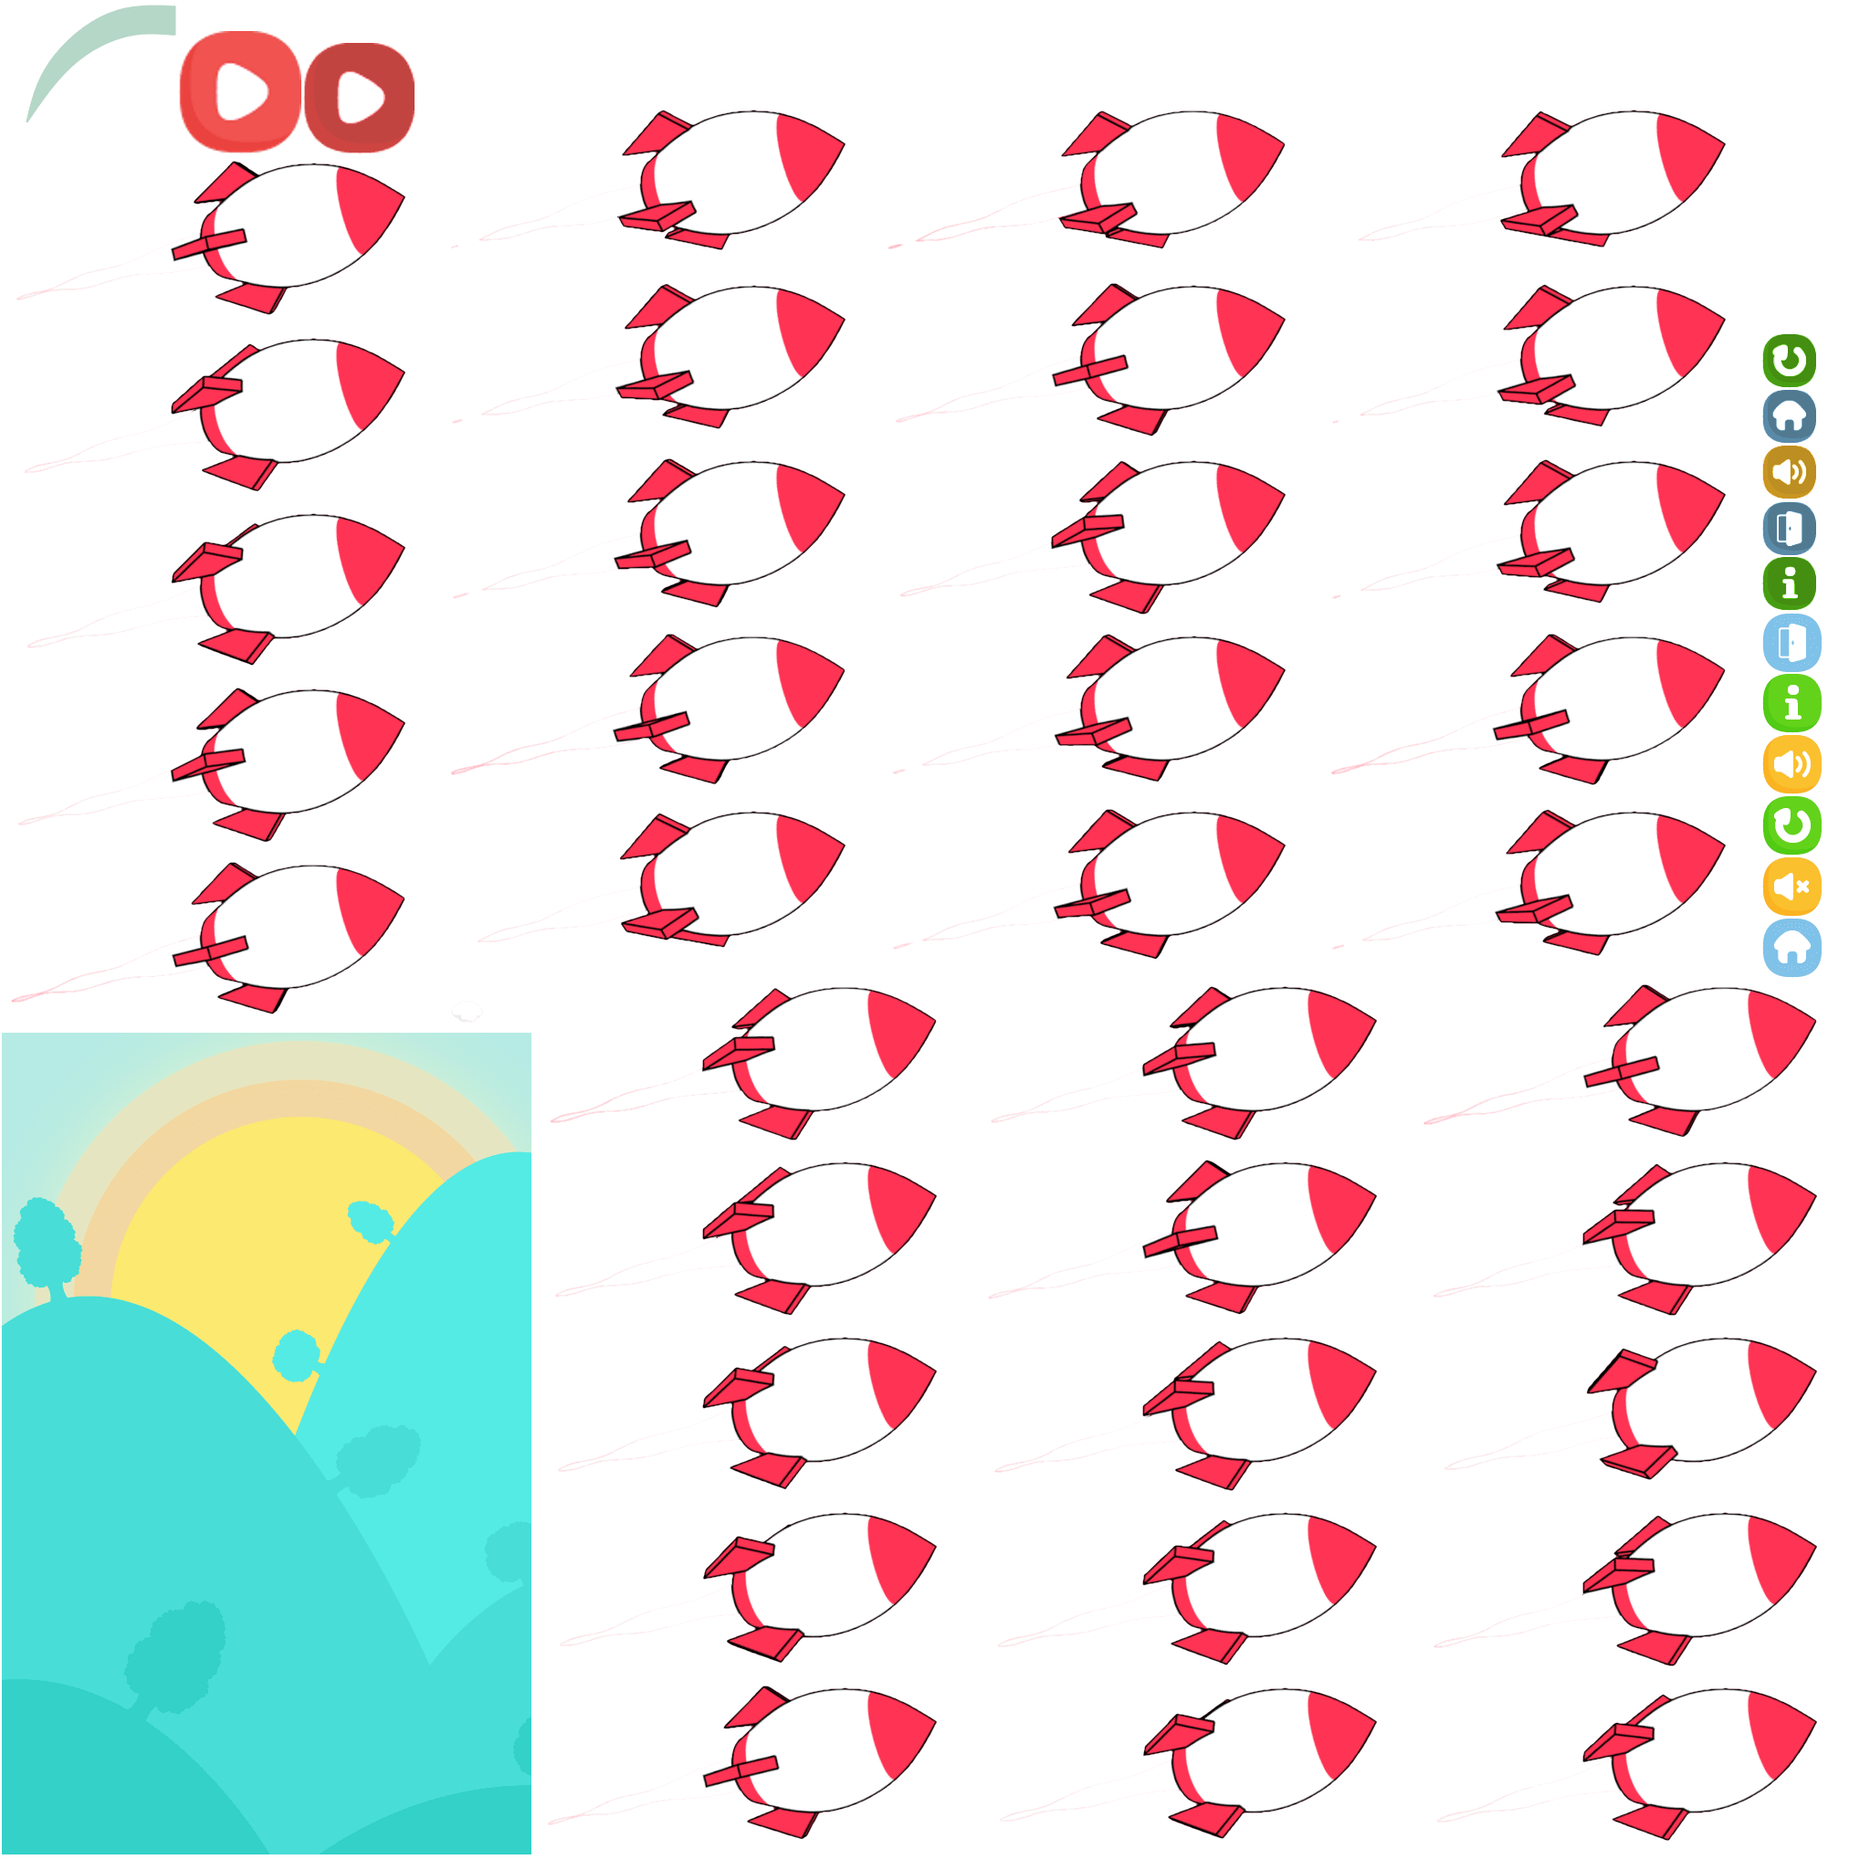
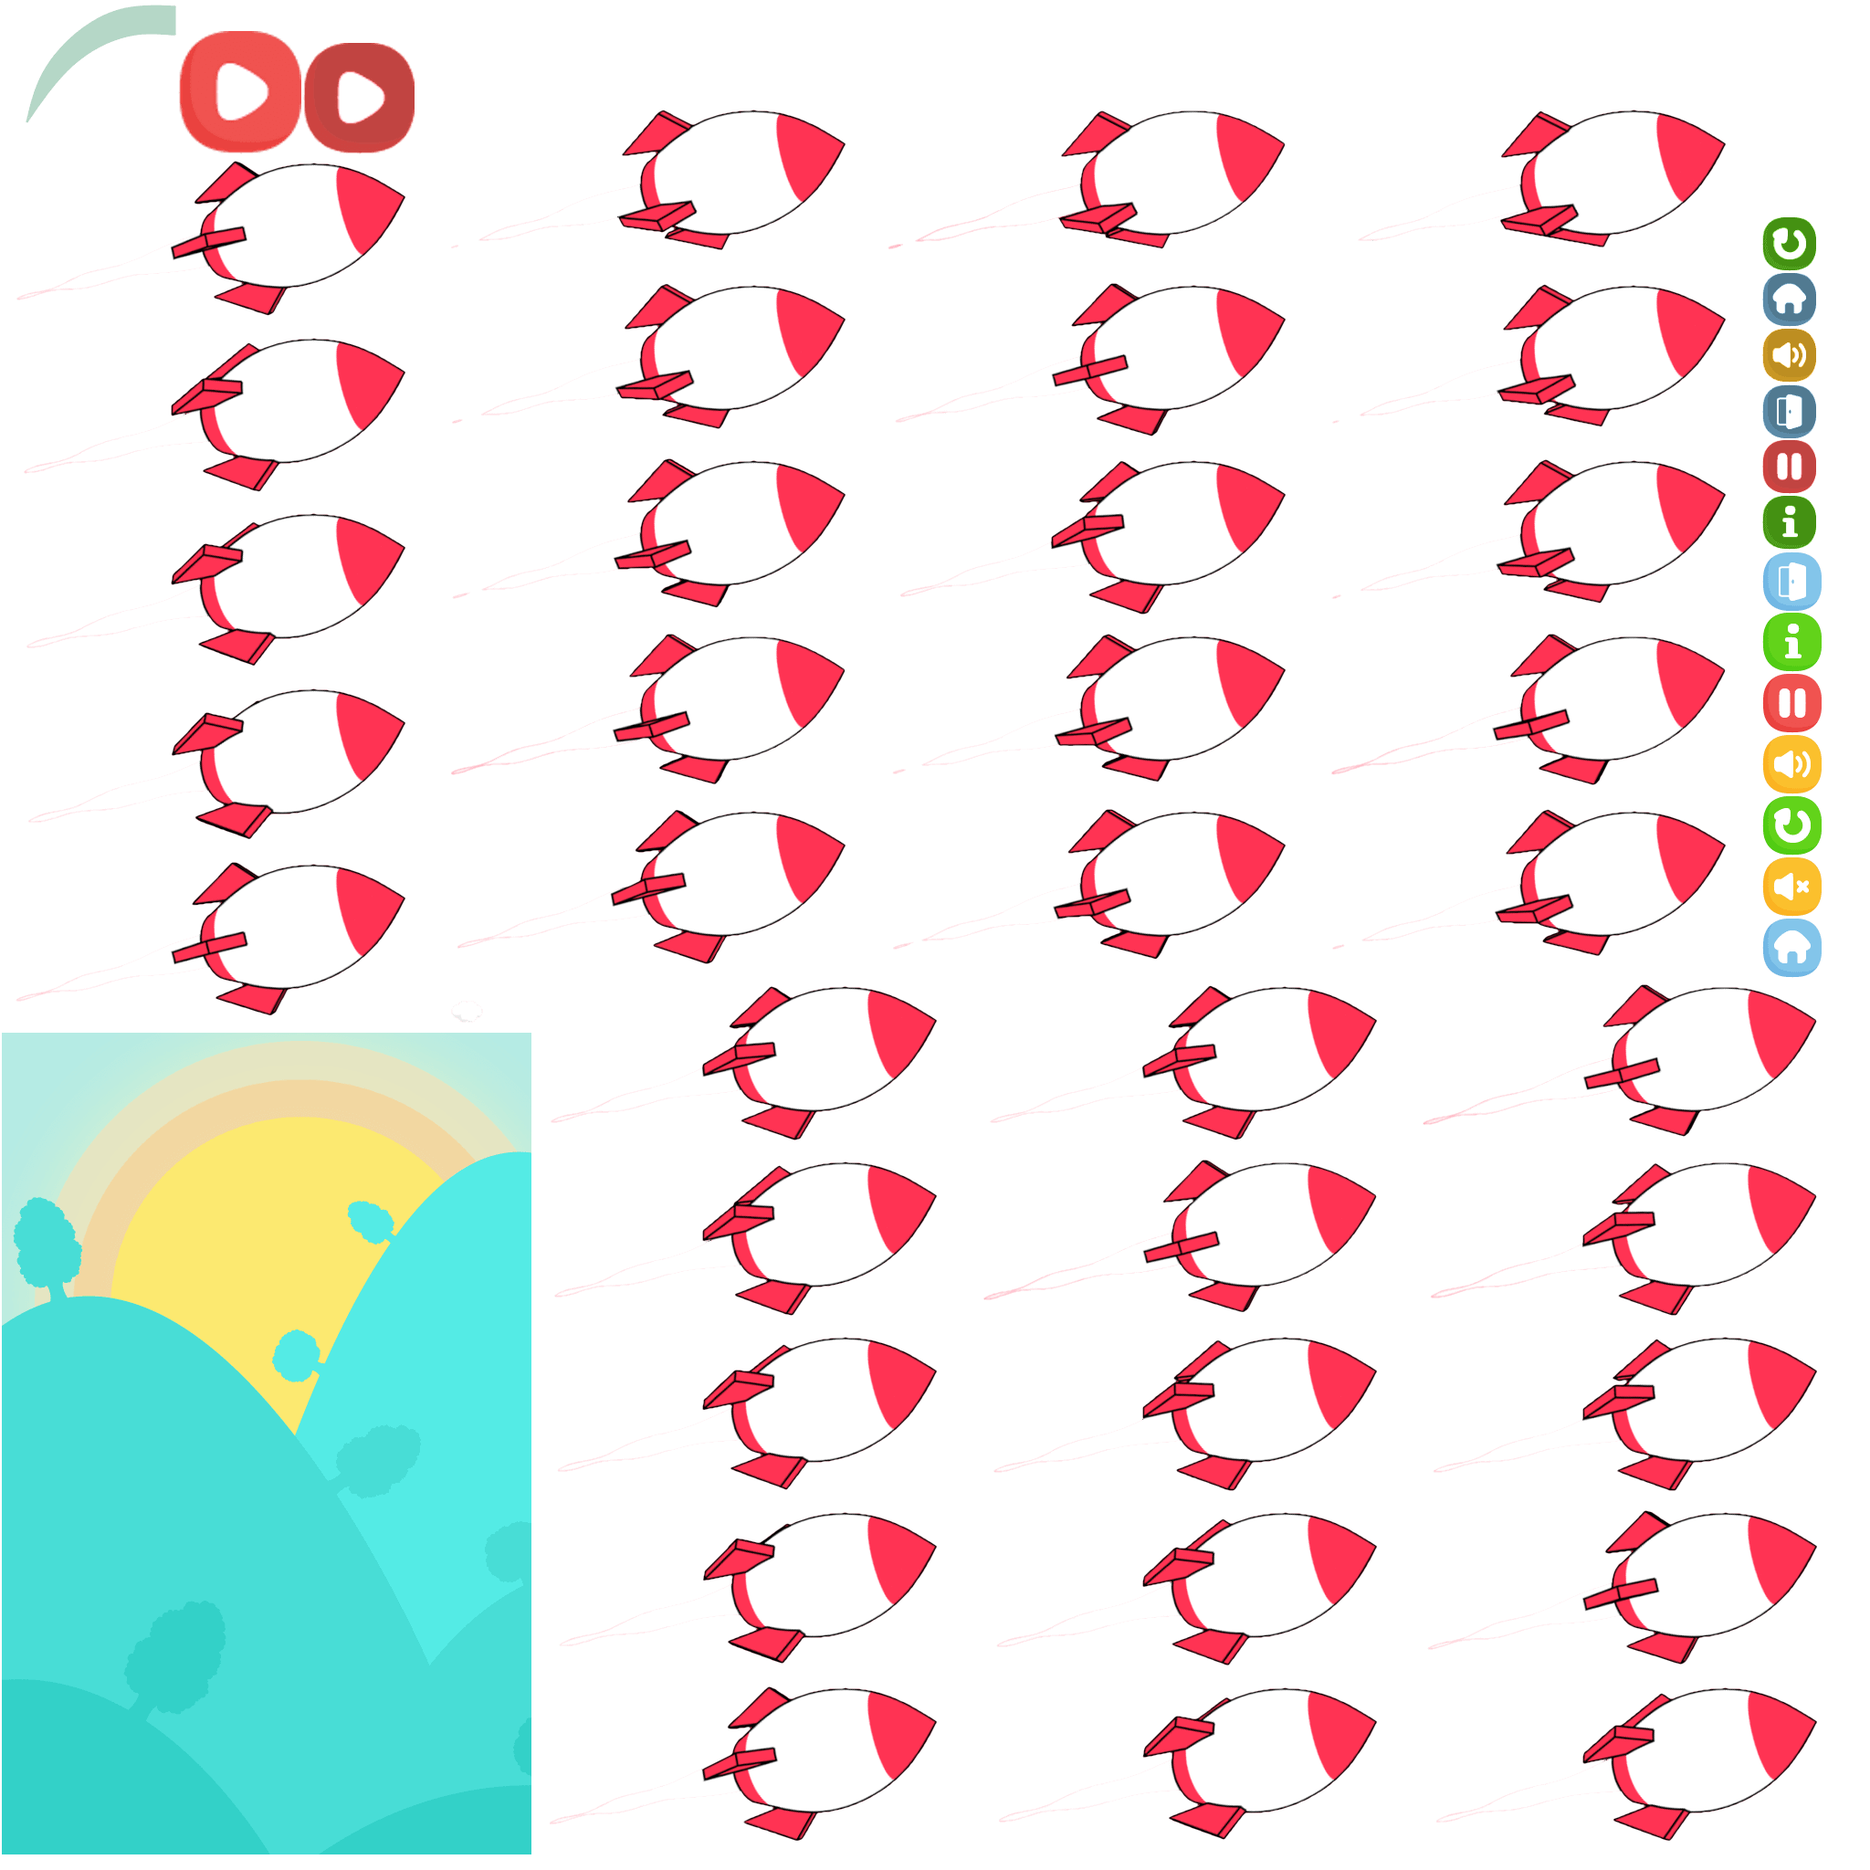
No comments

diff --git a/core/src/uy/com/agm/gamefour/screens/gui/InfoScreen.java b/core/src/uy/com/agm/gamefour/screens/gui/InfoScreen.java
@@ -10,6 +10,7 @@ import com.badlogic.gdx.scenes.scene2d.utils.TextureRegionDrawable;
 import com.badlogic.gdx.utils.I18NBundle;
 
 import uy.com.agm.gamefour.assets.Assets;
+import uy.com.agm.gamefour.assets.fonts.AssetFonts;
 import uy.com.agm.gamefour.assets.gui.AssetGUI;
 import uy.com.agm.gamefour.game.DebugConstants;
 import uy.com.agm.gamefour.game.GameFour;
@@ -35,6 +36,7 @@ public class InfoScreen extends GUIOverlayAbstractScreen {
 
     I18NBundle i18NGameThreeBundle;
     private Table mainTable;
+    private ImageButton pause;
     private Label scoreLabel;
     private Label highScoreLabel;
 
@@ -45,15 +47,17 @@ public class InfoScreen extends GUIOverlayAbstractScreen {
     @Override
     public void build() {
         i18NGameThreeBundle = Assets.getInstance().getI18NGameFour().getI18NGameFourBundle();
+        AssetFonts assetFonts = Assets.getInstance().getFonts();
+        AssetGUI assetGUI = Assets.getInstance().getGUI();
 
         Label.LabelStyle labelStyleBig = new Label.LabelStyle();
-        labelStyleBig.font = Assets.getInstance().getFonts().getDefaultBig();
+        labelStyleBig.font = assetFonts.getDefaultBig();
 
         Label.LabelStyle labelStyleNormal = new Label.LabelStyle();
-        labelStyleNormal.font = Assets.getInstance().getFonts().getDefaultNormal();
+        labelStyleNormal.font = assetFonts.getDefaultNormal();
 
         Label.LabelStyle labelStyleSmall = new Label.LabelStyle();
-        labelStyleSmall.font = Assets.getInstance().getFonts().getDefaultSmall();
+        labelStyleSmall.font = assetFonts.getDefaultSmall();
 
         Label gameOverLabel = new Label(i18NGameThreeBundle.format("infoScreen.gameOver"), labelStyleBig);
         scoreLabel = new Label("SCORE", labelStyleNormal);
@@ -70,20 +74,17 @@ public class InfoScreen extends GUIOverlayAbstractScreen {
         mainTable.setVisible(false);
         stage.addActor(mainTable);
 
-
-        // // TODO: 11/2/2018
-        ImageButton pauseButton = new ImageButton(new TextureRegionDrawable(Assets.getInstance().getGUI().getHome()),
-                new TextureRegionDrawable(Assets.getInstance().getGUI().getHomePressed()));
-        pauseButton.setY(500);
-        pauseButton.addListener(ListenerHelper.runnableListener(new Runnable() {
+        // Pause button
+        pause = new ImageButton(new TextureRegionDrawable(assetGUI.getPause()),
+                new TextureRegionDrawable(assetGUI.getPausePressed()));
+        pause.setPosition(0, stage.getHeight() - pause.getHeight());
+        pause.addListener(ListenerHelper.runnableListener(new Runnable() {
             @Override
             public void run() {
                 ((PlayScreen) game.getCurrentScreen()).setGameStatePaused();
             }
         }));
-
-        stage.addActor(pauseButton);
-
+        stage.addActor(pause);
     }
 
     private Table getButtonsTable() {
@@ -150,8 +151,9 @@ public class InfoScreen extends GUIOverlayAbstractScreen {
             prefs.save();
         }
         showScores(currentScore, bestScore);
-        setStageAnimation();
         mainTable.setVisible(true);
+        pause.setVisible(false);
+        setStageAnimation();
     }
 
     private void showScores(int score, int highScore) {

diff --git a/core/src/uy/com/agm/gamefour/screens/play/PlayScreen.java b/core/src/uy/com/agm/gamefour/screens/play/PlayScreen.java
@@ -1,9 +1,7 @@
 package uy.com.agm.gamefour.screens.play;
 
-import com.badlogic.gdx.Gdx;
 import com.badlogic.gdx.InputProcessor;
 
-import uy.com.agm.gamefour.admob.IAdsController;
 import uy.com.agm.gamefour.game.GameController;
 import uy.com.agm.gamefour.game.GameFour;
 import uy.com.agm.gamefour.game.GameSettings;
@@ -43,7 +41,6 @@ public class PlayScreen extends PlayAbstractScreen {
         worldRenderer = new WorldRenderer(gameWorld, game.getGameBatch(), game.getGameShapeRenderer(), game.getBox2DDebugRenderer());
         prefs = GameSettings.getInstance();
         endGame = false;
-        showBannerAd();
     }
 
     @Override
@@ -103,11 +100,13 @@ public class PlayScreen extends PlayAbstractScreen {
 
     @Override
     public void pause() {
+        hideBannerAd();
         super.pause();
     }
 
     @Override
     public void resume() {
+        showBannerAd();
         if (!pauseScreen.isPauseScreenVisible()) {
             super.resume();
         }
@@ -135,13 +134,11 @@ public class PlayScreen extends PlayAbstractScreen {
     }
 
     public void setGameStatePaused() {
-        super.pause();
         pauseScreen.showPauseScreen();
         infoScreen.disableEvents();
     }
 
     public void setGameStateRunning() {
-        super.resume();
         pauseScreen.hidePauseScreen();
     }
 
@@ -155,23 +152,5 @@ public class PlayScreen extends PlayAbstractScreen {
 
     public PauseScreen getPauseScreen() {
         return pauseScreen;
-    }
-
-    public void showBannerAd() {
-        IAdsController adsController = game.getAdsController();
-        if (adsController.isWifiConnected()) {
-            adsController.showBannerAd();
-        } else {
-            Gdx.app.debug(TAG, "**** Not connected to the internet");
-        }
-    }
-
-    public void showInterstitialAd() {
-        IAdsController adsController = game.getAdsController();
-        if (adsController.isWifiConnected()) {
-            adsController.showInterstitialAd(null); // We don't need to execute anything after ad
-        } else {
-            Gdx.app.debug(TAG, "**** Not connected to the internet");
-        }
     }
 }

diff --git a/core/src/uy/com/agm/gamefour/screens/gui/widget/AnimatedActor.java b/core/src/uy/com/agm/gamefour/screens/gui/widget/AnimatedActor.java
@@ -4,6 +4,7 @@ import com.badlogic.gdx.graphics.Color;
 import com.badlogic.gdx.graphics.g2d.Animation;
 import com.badlogic.gdx.graphics.g2d.Batch;
 import com.badlogic.gdx.graphics.g2d.TextureRegion;
+import com.badlogic.gdx.math.MathUtils;
 import com.badlogic.gdx.scenes.scene2d.Actor;
 
 /**
@@ -19,22 +20,26 @@ public class AnimatedActor extends Actor {
     private Color tint;
 
     public AnimatedActor(Animation animation) {
-        init(animation, 1.0f, Color.WHITE);
+        init(animation, false, 1.0f, Color.WHITE);
     }
 
-    public AnimatedActor(Animation animation, float scale) {
-        init(animation, scale, Color.WHITE);
+    public AnimatedActor(Animation animation, boolean randomStart) {
+        init(animation, randomStart, 1.0f, Color.WHITE);
     }
 
-    public AnimatedActor(Animation animation, float scale, Color tint) {
-        init(animation, scale, tint);
+    public AnimatedActor(Animation animation, boolean randomStart, float scale) {
+        init(animation, randomStart, scale, Color.WHITE);
     }
 
-    private void init(Animation animation, float scale, Color tint) {
+    public AnimatedActor(Animation animation, boolean randomStart, float scale, Color tint) {
+        init(animation, randomStart, scale, tint);
+    }
+
+    private void init(Animation animation, boolean randomStart, float scale, Color tint) {
         this.animation = animation;
+        stateTime = randomStart ? MathUtils.random(0, animation.getAnimationDuration()) : 0;
         textureRegion = (TextureRegion) animation.getKeyFrame(0);
         setSize(textureRegion.getRegionWidth() * scale, textureRegion.getRegionHeight() * scale);
-        stateTime = 0;
         this.tint = tint;
     }
 

diff --git a/core/src/uy/com/agm/gamefour/screens/AbstractScreen.java b/core/src/uy/com/agm/gamefour/screens/AbstractScreen.java
@@ -5,6 +5,7 @@ import com.badlogic.gdx.InputProcessor;
 import com.badlogic.gdx.Screen;
 import com.badlogic.gdx.graphics.GL20;
 
+import uy.com.agm.gamefour.admob.IAdsController;
 import uy.com.agm.gamefour.game.GameFour;
 
 /**
@@ -15,9 +16,11 @@ public abstract class AbstractScreen implements Screen {
     private static final String TAG = AbstractScreen.class.getName();
 
     protected GameFour game;
+    IAdsController adsController;
 
     public AbstractScreen(GameFour game) {
         this.game = game;
+        adsController =  game.getAdsController();
 
         // Sets whether the BACK button on Android should be caught.
         // This will prevent the app from being paused. Will have no effect on the desktop/html.
@@ -28,6 +31,26 @@ public abstract class AbstractScreen implements Screen {
         // Clear the screen with black
         Gdx.gl.glClearColor(0, 0, 0, 1);
         Gdx.gl.glClear(GL20.GL_COLOR_BUFFER_BIT);
+    }
+
+    protected void showBannerAd() {
+        if (adsController.isWifiConnected()) {
+            adsController.showBannerAd();
+        } else {
+            Gdx.app.debug(TAG, "**** Not connected to the internet");
+        }
+    }
+
+    protected void hideBannerAd() {
+        adsController.hideBannerAd();
+    }
+
+    protected void showInterstitialAd() {
+        if (adsController.isWifiConnected()) {
+            adsController.showInterstitialAd(null); // We don't need to execute anything after ad
+        } else {
+            Gdx.app.debug(TAG, "**** Not connected to the internet");
+        }
     }
 
     /** Called by {@link uy.com.agm.gamefour.game.DirectedGame} when this screen becomes the current screen. */

diff --git a/core/src/uy/com/agm/gamefour/screens/gui/PauseScreen.java b/core/src/uy/com/agm/gamefour/screens/gui/PauseScreen.java
@@ -37,7 +37,7 @@ public class PauseScreen extends GUIOverlayAbstractScreen {
     private static final float BUTTONS_ANIM_DURATION = 1.0f;
     private static final float BUTTONS_MOVE_BY_AMOUNT = 110.0f;
     private static final float STAGE_ANIM_DURATION = 1.0f;
-    private static final float DIM_ALPHA = 0.7f;
+    private static final float DIM_ALPHA = 0.8f;
 
     private Assets assets;
     private AssetGUI assetGUI;
@@ -77,10 +77,10 @@ public class PauseScreen extends GUIOverlayAbstractScreen {
 
         // Buttons
         defineButtons();
-        stage.addActor(play);
         stage.addActor(home);
         stage.addActor(audio);
         stage.addActor(reload);
+        stage.addActor(play);
 
         // Initially hidden
         setStageActorsVisible(false);
@@ -177,6 +177,7 @@ public class PauseScreen extends GUIOverlayAbstractScreen {
 
     public void showPauseScreen() {
         if (!isPauseScreenVisible()) {
+            game.getCurrentScreen().pause();
             setStageActorsVisible(true);
             setStageAnimation();
         }
@@ -193,6 +194,7 @@ public class PauseScreen extends GUIOverlayAbstractScreen {
                 public void run () {
                     setStageActorsVisible(false);
                     placeButtons(stage.getWidth(), stage.getHeight());
+                    game.getCurrentScreen().resume();
                 }
             })));
         }

diff --git a/core/src/uy/com/agm/gamefour/assets/gui/AssetGUI.java b/core/src/uy/com/agm/gamefour/assets/gui/AssetGUI.java
@@ -24,6 +24,8 @@ public class AssetGUI {
     private TextureRegion reloadPressed;
     private TextureRegion home;
     private TextureRegion homePressed;
+    private TextureRegion pause;
+    private TextureRegion pausePressed;
     private TextureRegion menuBackground;
     private TextureRegion littleCloud;
     private TextureRegion trail;
@@ -43,6 +45,8 @@ public class AssetGUI {
         reloadPressed = atlasGUI.findRegion("reloadPressed");
         home = atlasGUI.findRegion("home");
         homePressed = atlasGUI.findRegion("homePressed");
+        pause = atlasGUI.findRegion("pause");
+        pausePressed = atlasGUI.findRegion("pausePressed");
         menuBackground = atlasGUI.findRegion("menuBackground");
         littleCloud = atlasGUI.findRegion("littleCloud");
         trail = atlasGUI.findRegion("trail");
@@ -99,6 +103,14 @@ public class AssetGUI {
 
     public TextureRegion getHomePressed() {
         return homePressed;
+    }
+
+    public TextureRegion getPause() {
+        return pause;
+    }
+
+    public TextureRegion getPausePressed() {
+        return pausePressed;
     }
 
     public TextureRegion getMenuBackground() {

diff --git a/core/src/uy/com/agm/gamefour/screens/gui/MainMenuScreen.java b/core/src/uy/com/agm/gamefour/screens/gui/MainMenuScreen.java
@@ -87,6 +87,8 @@ public class MainMenuScreen extends GUIAbstractScreen {
 
     @Override
     public void show() {
+        hideBannerAd();
+
         // Background
         menuBackground = new Image(assetGUI.getMenuBackground());
         stage.addActor(menuBackground);
@@ -98,7 +100,7 @@ public class MainMenuScreen extends GUIAbstractScreen {
         stage.addActor(gameTitle);
 
         // Distant rocket
-        rocketBackground = new AnimatedActor(assetGUI.getRocket().getRocketAnimation(), ROCKET_BACKGROUND_SCALE);
+        rocketBackground = new AnimatedActor(assetGUI.getRocket().getRocketAnimation(), true, ROCKET_BACKGROUND_SCALE);
         stage.addActor(rocketBackground);
 
         // Cloud
@@ -110,7 +112,7 @@ public class MainMenuScreen extends GUIAbstractScreen {
         stage.addActor(trail);
 
         // Main character
-        jumper = new AnimatedActor(assetSprites.getJumper().getJumperJumpAnimation(), JUMPER_SCALE, Color.SALMON);
+        jumper = new AnimatedActor(assetSprites.getJumper().getJumperJumpAnimation(), true, JUMPER_SCALE, Color.SALMON);
         stage.addActor(jumper);
 
         // Near rocket

diff --git a/core/src/uy/com/agm/gamefour/game/DebugConstants.java b/core/src/uy/com/agm/gamefour/game/DebugConstants.java
@@ -6,7 +6,7 @@ package uy.com.agm.gamefour.game;
 
 public class DebugConstants {
     // Master variable: turns debug mode on or off
-    public static final boolean TURN_ON_DEBUG = true;
+    public static final boolean TURN_ON_DEBUG = false;
 
     // Sets the log level to debug
     public static final boolean DEBUG_MODE = true && TURN_ON_DEBUG;
